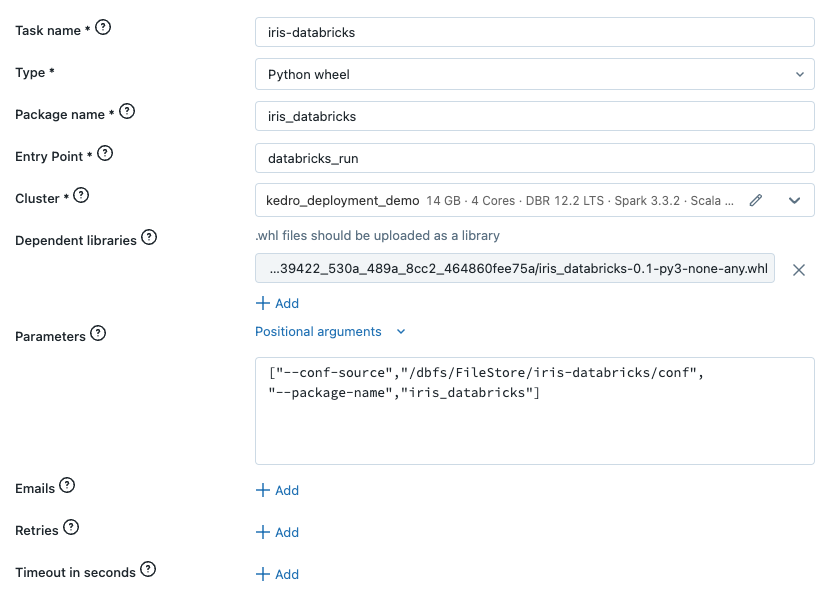
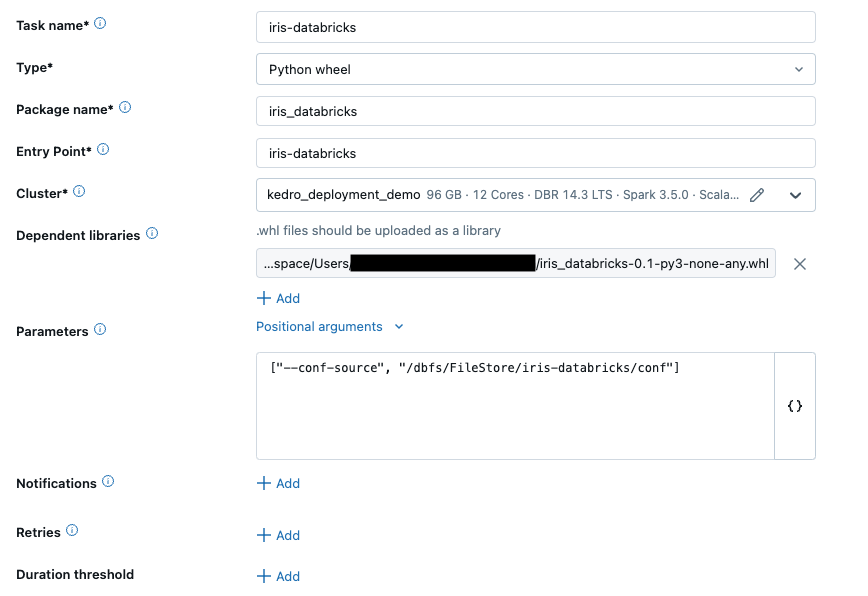
Update databricks deployment docs and remove mentions of custom entrypoint (#4067)
* Update databricks deployment docs and remove mentions of custom entrypoint
* Update job image
* Update instructions after databricks-iris starter was updated for new kedro-databricks plugin
* Remove step to set custom logging, this now happens automatically

--------------------------

diff --git a/docs/source/deployment/databricks/databricks_deployment_workflow.md b/docs/source/deployment/databricks/databricks_deployment_workflow.md
@@ -36,9 +36,8 @@ The sequence of steps described in this section is as follows:
 2. [Install Kedro and the Databricks CLI in a new virtual environment](#install-kedro-and-the-databricks-cli-in-a-new-virtual-environment)
 3. [Authenticate the Databricks CLI](#authenticate-the-databricks-cli)
 4. [Create a new Kedro project](#create-a-new-kedro-project)
-5. [Create an entry point for Databricks](#create-an-entry-point-for-databricks)
-6. [Package your project](#package-your-project)
-7. [Upload project data and configuration to DBFS](#upload-project-data-and-configuration-to-dbfs)
+5. [Package your project](#package-your-project)
+6. [Upload project data and configuration to DBFS](#upload-project-data-and-configuration-to-dbfs)
 
 ### Note your Databricks username and host
 
@@ -99,64 +98,6 @@ This command creates a new Kedro project using the `databricks-iris` starter tem
  If you are not using the `databricks-iris` starter to create a Kedro project, **and** you are working with a version of Kedro **earlier than 0.19.0**, then you should [disable file-based logging](https://docs.kedro.org/en/0.18.14/logging/logging.html#disable-file-based-logging) to prevent Kedro from attempting to write to the read-only file system.
  ```
 
-### Create an entry point for Databricks
-
-The default entry point of a Kedro project uses a Click command line interface (CLI), which is not compatible with Databricks. To run your project as a Databricks job, you must define a new entry point specifically for use on Databricks.
-
-The `databricks-iris` starter has this entry point pre-built, so there is no extra work to do here, but generally you must **create an entry point manually for your own projects using the following steps**:
-
-1. **Create an entry point script**: Create a new file in `<project_root>/src/iris_databricks` named `databricks_run.py`. Copy the following code to this file:
-
-```python
-import argparse
-import logging
-
-from kedro.framework.project import configure_project
-from kedro.framework.session import KedroSession
-
-
-def main():
-    parser = argparse.ArgumentParser()
-    parser.add_argument("--env", dest="env", type=str)
-    parser.add_argument("--conf-source", dest="conf_source", type=str)
-    parser.add_argument("--package-name", dest="package_name", type=str)
-
-    args = parser.parse_args()
-    env = args.env
-    conf_source = args.conf_source
-    package_name = args.package_name
-
-    # https://kb.databricks.com/notebooks/cmd-c-on-object-id-p0.html
-    logging.getLogger("py4j.java_gateway").setLevel(logging.ERROR)
-    logging.getLogger("py4j.py4j.clientserver").setLevel(logging.ERROR)
-
-    configure_project(package_name)
-    with KedroSession.create(env=env, conf_source=conf_source) as session:
-        session.run()
-
-
-if __name__ == "__main__":
-    main()
-```
-
-2. **Define a new entry point**: Open `<project_root>/pyproject.toml` in a text editor or IDE and add a new line in the `[project.scripts]` section, so that it becomes:
-
-```python
-[project.scripts]
-databricks_run = "<package_name>.databricks_run:main"
-```
-
-Remember to replace <package_name> with the correct package name for your project.
-
-This process adds an entry point to your project which can be used to run it on Databricks.
-
-```{note}
-Because you are no longer using the default entry-point for Kedro, you will not be able to run your project with the options it usually provides. Instead, the `databricks_run` entry point in the above code and in the `databricks-iris` starter contains a simple implementation of two options:
-- `--package_name` (required): the package name (defined in `pyproject.toml`) of your packaged project.
-- `--env`: specifies a [Kedro configuration environment](../../configuration/configuration_basics.md#configuration-environments) to load for your run.
-- `--conf-source`: specifies the location of the `conf/` directory to use with your Kedro project.
-```
-
 ### Package your project
 
 To package your Kedro project for deployment on Databricks, you must create a Wheel (`.whl`) file, which is a binary distribution of your project. In the root directory of your Kedro project, run the following command:
@@ -182,14 +123,14 @@ There are several ways to upload data to DBFS: you can use the [DBFS API](https:
 - **Upload your project's data and config**: at the command line in your local environment, use the following Databricks CLI commands to upload your project's locally stored data and configuration to DBFS:
 
 ```bash
-databricks fs cp --recursive <project_root>/data/ dbfs:/FileStore/iris-databricks/data
-databricks fs cp --recursive <project_root>/conf/ dbfs:/FileStore/iris-databricks/conf
+databricks fs cp --recursive <project_root>/data/ dbfs:/FileStore/iris_databricks/data
+databricks fs cp --recursive <project_root>/conf/ dbfs:/FileStore/iris_databricks/conf
 ```
 
 The `--recursive` flag ensures that the entire folder and its contents are uploaded. You can list the contents of the destination folder in DBFS using the following command:
 
 ```bash
-databricks fs ls dbfs:/FileStore/iris-databricks/data
+databricks fs ls dbfs:/FileStore/iris_databricks/data
 ```
 
 You should see the contents of the project's `data/` directory printed to your terminal:
@@ -204,6 +145,10 @@ You should see the contents of the project's `data/` directory printed to your t
 07_model_output
 08_reporting
 ```
+
+```{note}
+ If you are not using the `databricks-iris` starter to create a Kedro project, then you should make sure your catalog entries point to the DBFS storage.
+ ```
 
 ## Deploy and run your Kedro project using the workspace UI
 
@@ -235,9 +180,6 @@ Configure the job cluster with the following settings:
 - In the `name` field enter `kedro_deployment_demo`.
 - Select the radio button for `Single node`.
 - Select the runtime `13.3 LTS` in the `Databricks runtime version` field.
-- In the `Advanced options` section, under the `Spark` tab, locate the `Environment variables` field. Add the following line:
-`KEDRO_LOGGING_CONFIG="/dbfs/FileStore/iris-databricks/conf/logging.yml"`
-Here, ensure you specify the correct path to your custom logging configuration. This step is crucial because the default Kedro logging configuration incorporates the rich library, which is incompatible with Databricks jobs. In the `databricks-iris` Kedro starter, the `rich` handler in `logging.yml` is altered to a `console` handler for compatibility. For additional information about logging configurations, refer to the [Kedro Logging Manual](https://docs.kedro.org/en/stable/logging/index.html).
 - Leave all other settings with their default values in place.
 
 The final configuration for the job cluster should look the same as the following:
@@ -250,14 +192,14 @@ Configure the job with the following settings:
 
 - Enter `iris-databricks` in the `Name` field.
 - In the dropdown menu for the `Type` field, select `Python wheel`.
-- In the `Package name` field, enter `iris_databricks`. This is the name of your package as defined in your project's `src/setup.py` file.
-- In the `Entry Point` field, enter `databricks_run`. This is the name of the [entry point](#create-an-entry-point-for-databricks) to run your package from.
+- In the `Package name` field, enter `iris_databricks`. This is the name of your package as defined in your project's `pyproject.toml` file.
+- In the `Entry Point` field, enter `iris-databricks`. This is the name of the entry point to run your package from as defined in your project's `pyproject.toml` file.
 - Ensure the job cluster you created in step two is selected in the dropdown menu for the `Cluster` field.
 - In the `Dependent libraries` field, click `Add` and upload [your project's `.whl` file](#package-your-project), making sure that the radio buttons for `Upload` and `Python Whl` are selected for the `Library Source` and `Library Type` fields.
-- In the `Parameters` field, enter the following list of runtime options:
+- In the `Parameters` field, enter the following runtime option:
 
 ```bash
-["--conf-source", "/dbfs/FileStore/iris-databricks/conf", "--package-name", "iris_databricks"]
+["--conf-source", "/dbfs/FileStore/iris_databricks/conf"]
 ```
 
 The final configuration for your job should look the same as the following:
@@ -278,7 +220,7 @@ The following things happen when you run your job:
 
 - The job cluster is provisioned and started (job status: `Pending`).
 - The packaged Kedro project and all its dependencies are installed (job status: `Pending`)
-- The packaged Kedro project is run from the specified `databricks_run` entry point (job status: `In Progress`).
+- The packaged Kedro project is run from the specified `iris-databricks` entry point (job status: `In Progress`).
 - The packaged code finishes executing and the job cluster is stopped (job status: `Succeeded`).
 
 A run will take roughly six to seven minutes.
